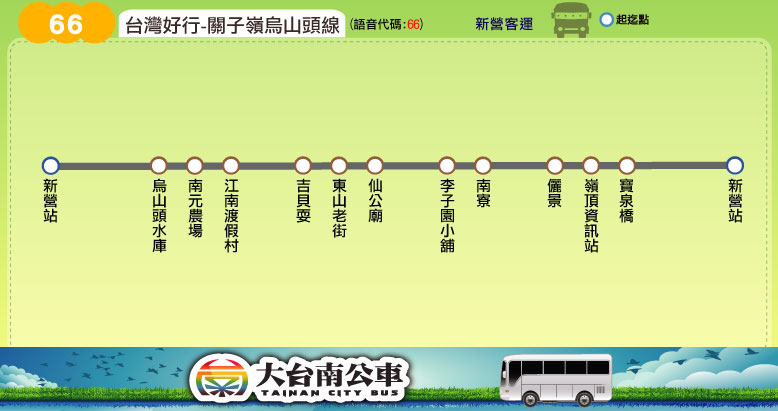
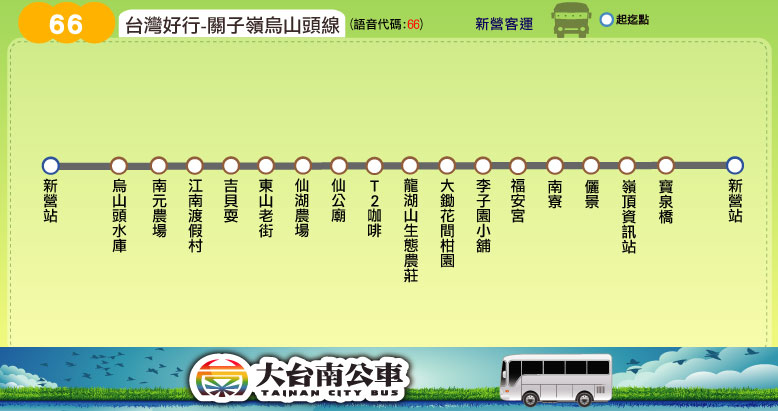
新增站點：台灣好行66關子嶺烏山頭線(增：仙湖農場、T2咖啡、龍湖山生態農莊、大鋤花間柑園、福安宮)，並移除旅遊套票資訊

Changed region(s): [[0.1234, 0.3796, 0.8638, 0.7007]]

diff --git a/tools/transfer_information.js b/tools/transfer_information.js
@@ -335,7 +335,7 @@ transfer_yongkang = '<tr><th>永康</th>\
 transfer_zuozhen_district_office = '<tr><th>左鎮公所</th>\
 <td style="text-align: center"><img src="' + LOGO_DIR_PATH + 'green_transfer_logo.png"></td>\
 	<td id="green"><p>' + link_green_12 + '、' + link_green_13 + '</p>'
-	+ link_green + '<font color="#FFFFFF" size="-1">(需步行一站至左鎮站轉乘)</font></td></tr>';
+	+ link_green + '<font color="#FFFFFF" size="-1">(需步行一站至左鎮站搭乘)</font></td></tr>';
 
 transfer_nanhua_district_office = '<tr><th rowspan="2">南化公所</th>\
 <td style="text-align: center"><img src="' + LOGO_DIR_PATH + 'green_transfer_logo.png"></td>\
@@ -474,11 +474,13 @@ transfer_houbi_district_office = '<tr><th rowspan="2">後壁區公所</th>\
 <tr><td style="text-align: center"><img src="' + LOGO_DIR_PATH + 'yellow_transfer_logo.png"></td>\
 	<td id="yellow">' + link_yellow_6 + '、' + link_yellow_6_1 + '</td></tr>';
 
-transfer_guanziling = '<tr><th rowspan="2">關子嶺</th>\
+transfer_guanziling = '<tr><th rowspan="3">關子嶺</th>\
 <td style="text-align: center"><img src="' + LOGO_DIR_PATH + 'yellow_transfer_logo.png"></td>\
 	<td id="yellow">' + link_yellow_12 + '、' + link_yellow_13 + '、' + link_yellow_12_guanziling + '</td></tr>\
 <tr><td style="text-align: center"><img src="' + LOGO_DIR_PATH + 'highway_bus_transfer_logo.png"></td>\
-	<td id="tour_bus">' + link_highway_bus_7214 + '</td></tr>';
+	<td id="tour_bus">' + link_highway_bus_7214 + '<br /><font color="#FFFFFF" size="-1">(需至嘉義客運嶺頂公園站搭乘)</font></td></tr>\
+<tr><td style="text-align: center"><img src="' + LOGO_DIR_PATH + 'taiwantrip_logo.png"></td>\
+	<td id="tour_bus">' + link_tour_bus_66 + '<br /><font color="#FFFFFF" size="-1">(需步行一站至嶺頂資訊站搭乘)</font></td></tr>';
 
 transfer_south_kunshen = '<tr><th rowspan="4">南鯤鯓</th>\
 <td style="text-align: center"><img src="' + LOGO_DIR_PATH + 'blue_transfer_logo.png"></td>\
@@ -492,7 +494,7 @@ transfer_south_kunshen = '<tr><th rowspan="4">南鯤鯓</th>\
 
 transfer_beimen = '<tr><th rowspan="2">北門</th>\
 <td style="text-align: center"><img src="' + LOGO_DIR_PATH + 'blue_transfer_logo.png"></td>\
-	<td id="blue">' + link_blue_2 + '、<br />' + link_blue_1 + '<font color="#FFFFFF" size="-1">(需步行一站至北門橋頭轉乘)</font></td></tr>\
+	<td id="blue">' + link_blue_2 + '、<br />' + link_blue_1 + '<font color="#FFFFFF" size="-1">(需步行一站至北門橋頭搭乘)</font></td></tr>\
 <tr><td style="text-align: center"><img src="' + LOGO_DIR_PATH + 'taiwantrip_logo.png"></td>\
 	<td id="tour_bus">' + link_tour_bus_7702 + '</td></tr>';
 

diff --git a/route/fare_and_time/tour_bus_66.js b/route/fare_and_time/tour_bus_66.js
@@ -6,8 +6,8 @@ tour_bus_66_interval_stop = [
 ["江南渡假村"],
 ["吉貝耍"],
 ["東山老街"],
-["仙公廟"],
-["李子園小鋪"],
+["仙湖農場","仙公廟","T2咖啡","龍湖山生態農莊","大鋤花間柑園"],
+["李子園小鋪","福安宮"],
 ["南寮"],
 ["儷景","嶺頂資訊站"],
 ["寶泉橋"],
@@ -30,8 +30,8 @@ tour_bus_66_fare = [
 // format = [time at the start stop] or
 // [time, other] or
 // [time, start_stop, end_stop, other]
-tour_bus_66_main_stop_name = ["新營站","烏山頭<br />水庫","南元農場","江南<br />渡假村","吉貝耍","東山老街","仙公廟","李子園<br />小鋪","南寮","儷景","嶺頂<br />資訊站","寶泉橋","新營站"];
-tour_bus_66_main_stop_time_consume = [0, 28, 37, 51, 57, 63, 96, 108, 116, 123, 125, 128, 165];
-tour_bus_66_important_stop = [0, 1, 6, 10, 12]; // 新營站, 烏山頭水庫, 仙公廟, 嶺頂資訊站, 新營站
+tour_bus_66_main_stop_name = ["新營站","烏山頭<br />水庫","南元<br />農場","江南<br />渡假村","吉貝耍","東山<br />老街","仙湖<br />農場","仙公廟","T2<br />咖啡","龍湖山<br />生態農莊","大鋤花<br />間柑園","李子園<br />小鋪","福安宮","南寮","儷景","嶺頂<br />資訊站","寶泉橋","新營站"];
+tour_bus_66_main_stop_time_consume = [0, 28, 37, 51, 57, 63, 86, 97, 102, 103, 106, 108, 113, 116, 123, 125, 128, 165];
+tour_bus_66_important_stop = [0, 1, 5, 7, 11, 15, 17]; // 新營站, 烏山頭水庫, 東山老街, 仙公廟, 李子園小鋪, 嶺頂資訊站, 新營站
 tour_bus_66_time_go = [["09:00"],["13:00"]];
 tour_bus_66_time_return = [["11:00"]];

diff --git a/tour_bus/tour_bus_66.html b/tour_bus/tour_bus_66.html
@@ -7,7 +7,7 @@
 	route_name_en = 'No.66';
 	route_file_name = 'tour_bus_66';
 	route_type = 'tour_bus';
-	route_interval = ['新營','烏山頭水庫','新營'];
+	route_interval = ['新營','關子嶺','新營'];
 </script>
 <script src="../tools/web_model.js"></script> 
 <script type="text/javascript">
@@ -20,8 +20,8 @@
 <script type="text/javascript">
 	block_header();
 	block_route_map();
-	block_route_info(route_interval,'新營客運','','里程計費/旅遊套票','http://2384.tainan.gov.tw:8080/AGPSRemoteQuery3/ajaxBus.jsp?pathId=6066&locale=zh_TW');
-	block_fare(0, '<h1>僅限「台南市民卡」及「旅遊套票」搭乘</h1><h2>全線不接受現金購票及非市民卡之電子票證搭乘</h2>');
+	block_route_info(route_interval,'新營客運','','里程計費','http://2384.tainan.gov.tw:8080/AGPSRemoteQuery3/ajaxBus.jsp?pathId=6066&locale=zh_TW');
+	block_fare(0, '<h1>僅限「台南市民卡」搭乘</h1><h2>全線不接受現金購票及非市民卡之電子票證搭乘</h2>');
 	block_time_schedule('新營','新營','<font color="#721994">環狀行駛 2班先經烏山頭、1班先經關子嶺</font>');
 	block_transfer(transfer_hsinyin+transfer_wushantou_reservoir+transfer_guanziling);
 	block_copyright();
